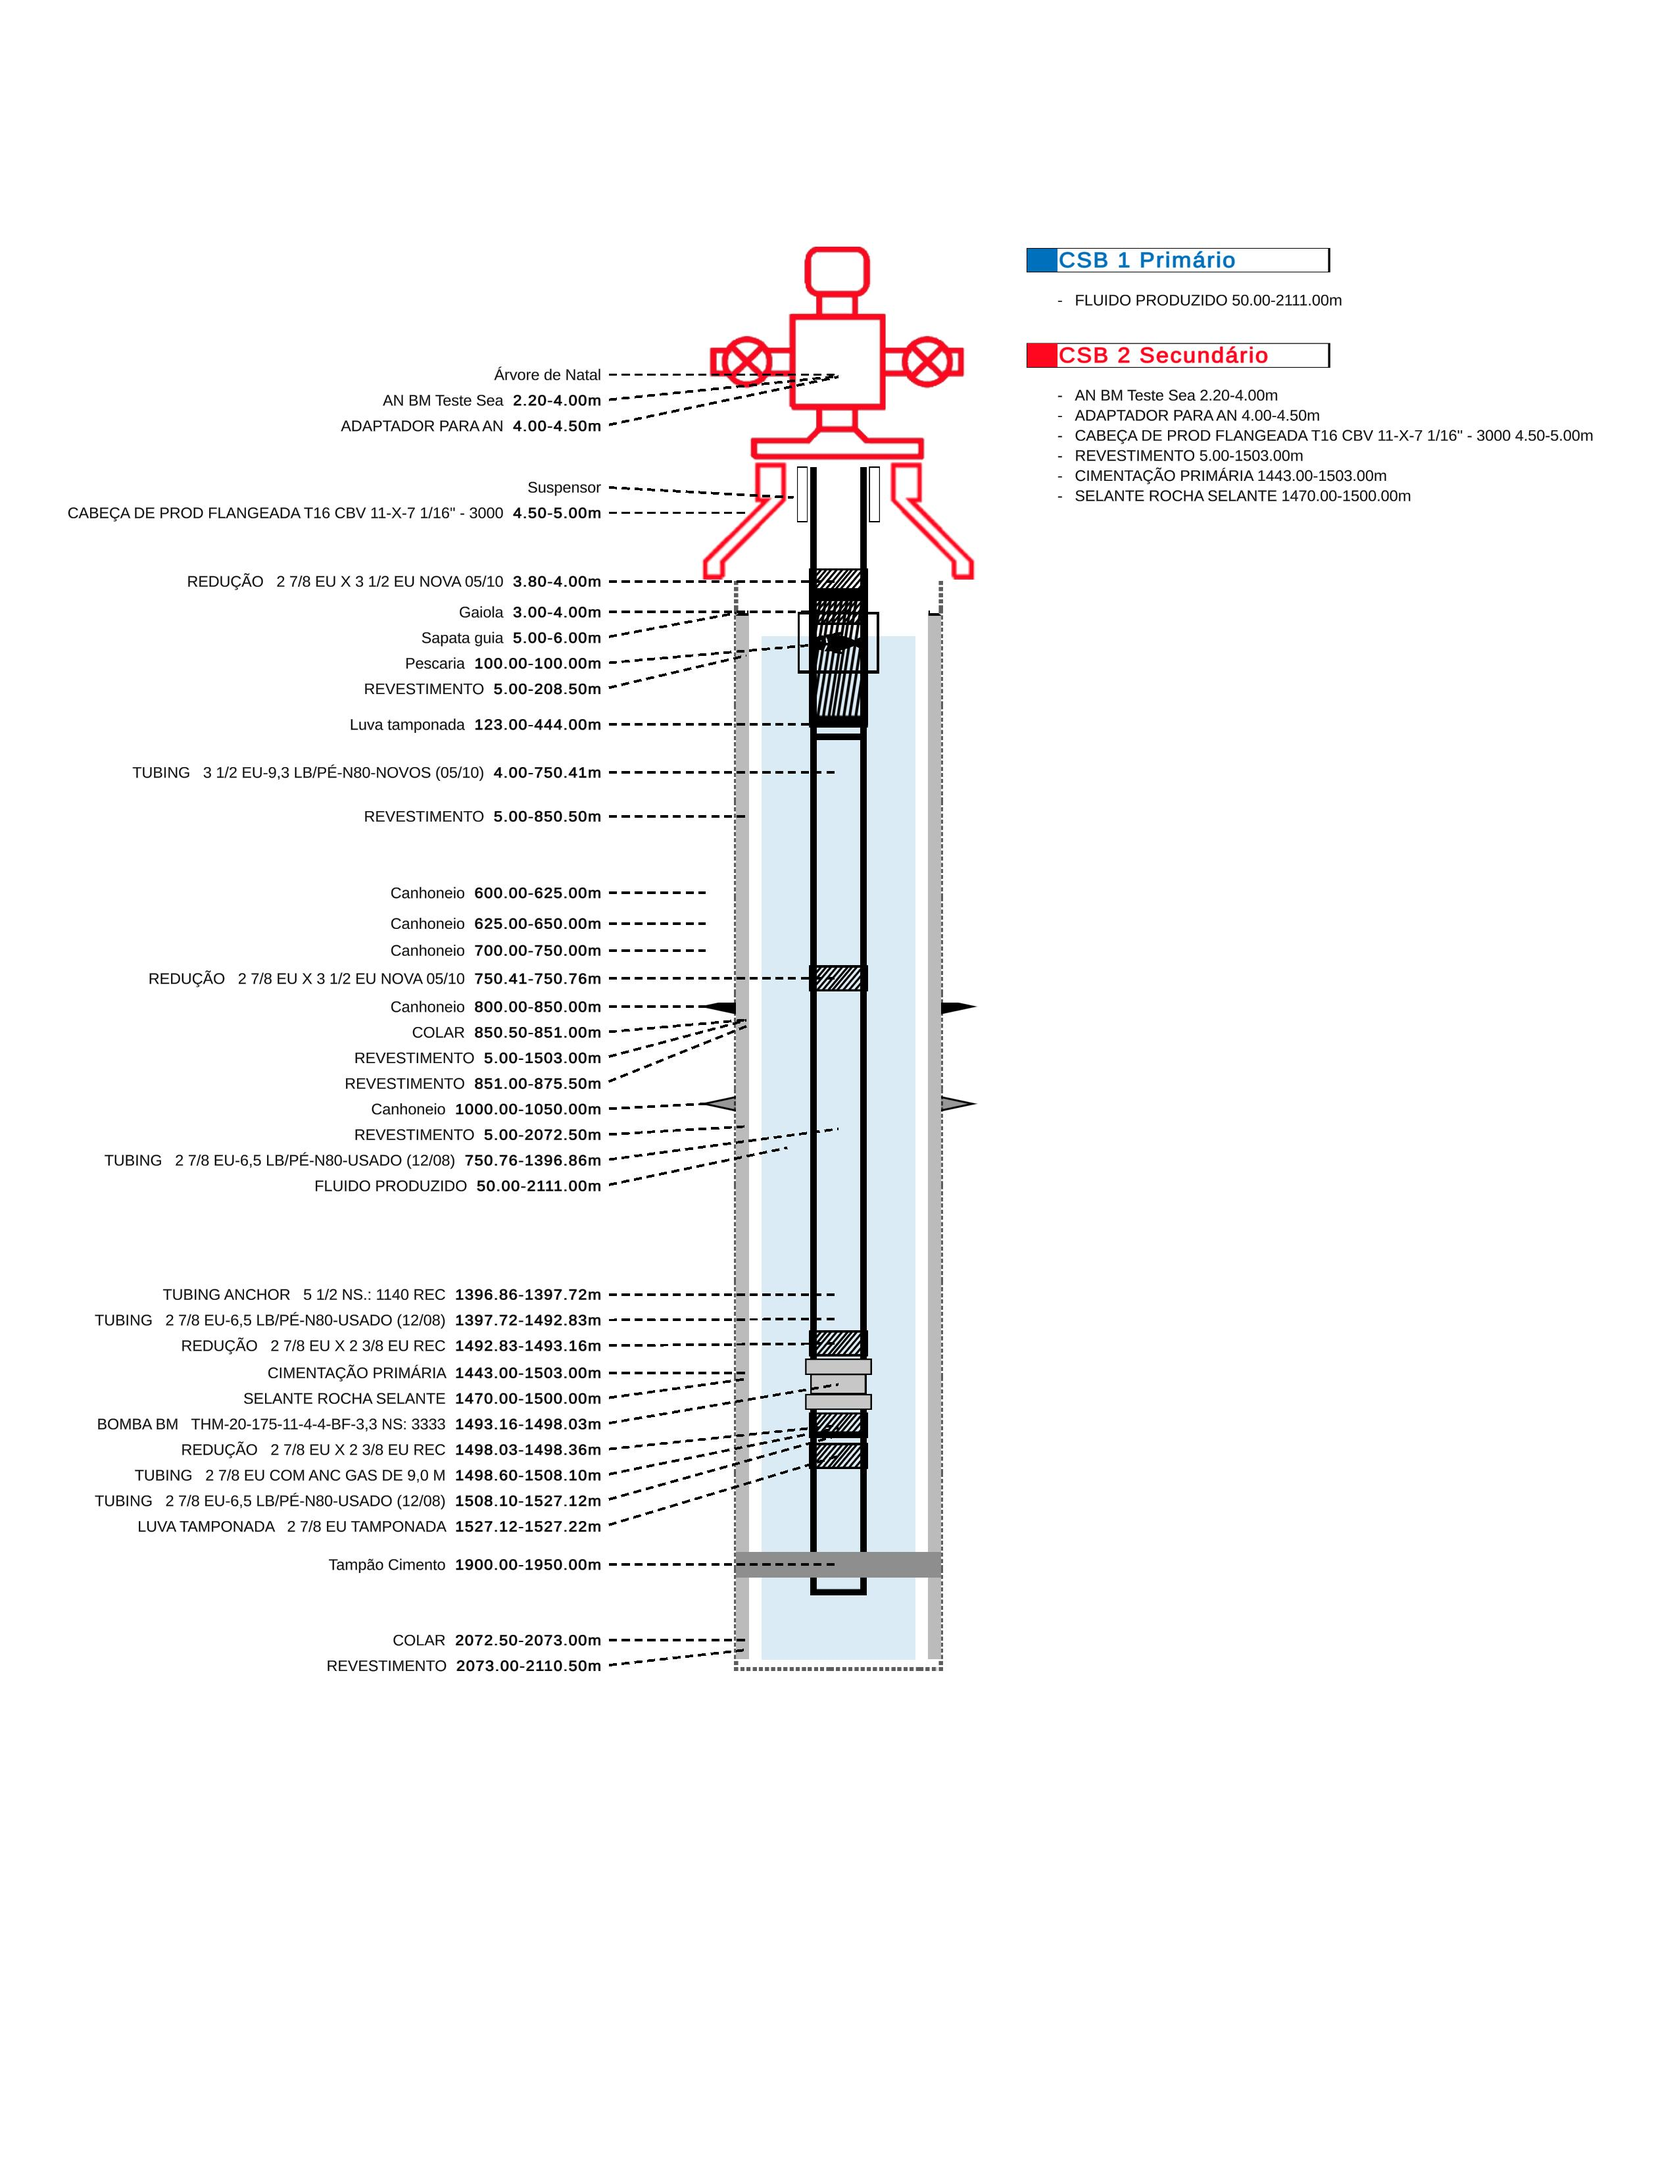
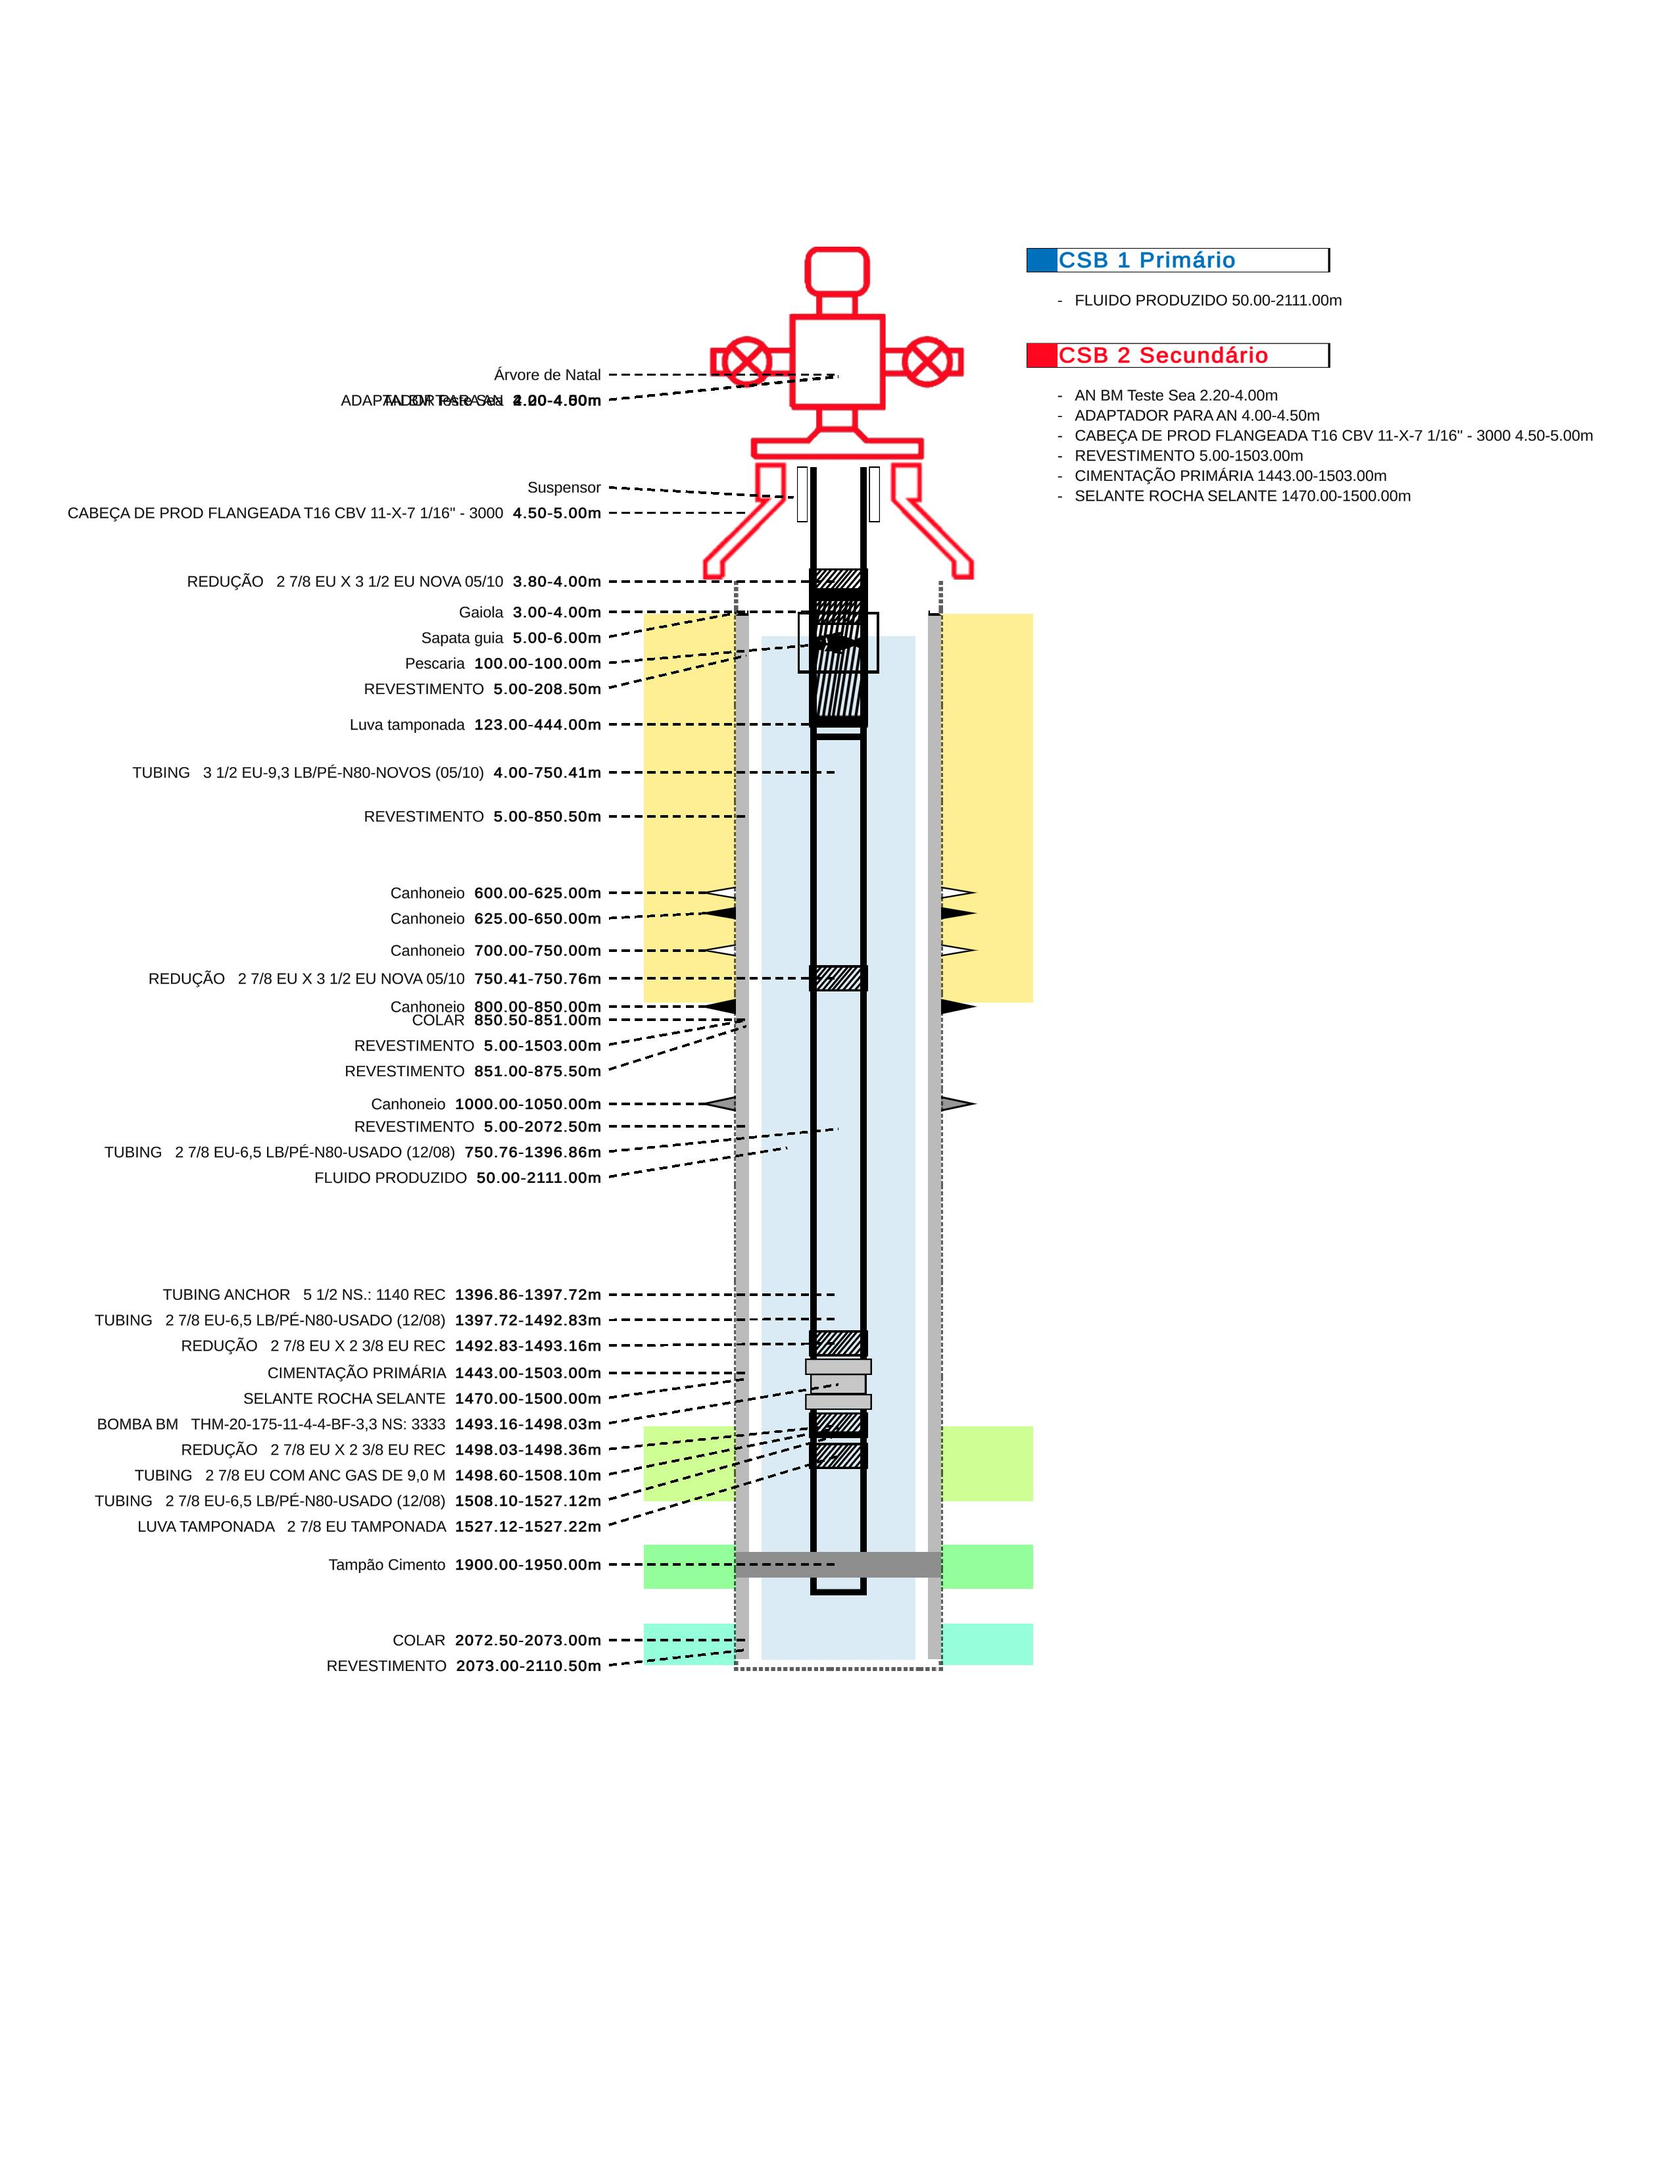
WIP new logic for background renderer

diff --git a/Assets/Source/Logic/Scripts/Visual Rendering/VisualElement.cs b/Assets/Source/Logic/Scripts/Visual Rendering/VisualElement.cs
@@ -84,11 +84,16 @@ public class VisualElement : MonoBehaviour
     public async UniTask GenerateDrawing(int additionalSort = 0)
     {
         SpriteRenderer render = null;
+        SpriteRenderer backGroundRenderer = null;
         BaseElement element = _sItem.element;
 
         if (element.useBgColor)
         {
             render = await CreateRender("FillColor", element.sortInLayer + additionalSort);
+            backGroundRenderer = 
+                element.useWhiteBackground ?
+                render.GetComponentInChildren<SpriteRenderer>() :
+                null;
 
             render.color = element.defaultColor;
             render.transform.localScale = DrawArea.size * element.aditionalBgScale;
@@ -101,7 +106,11 @@ public class VisualElement : MonoBehaviour
         if (element.useInsideArt && element.art != null)
         {
             render = await CreateRender("Art", element.sortInLayer + additionalSort + 1);
-
+            backGroundRenderer = render.GetComponentInChildren<SpriteRenderer>();
+            backGroundRenderer =
+                element.useWhiteBackground ?
+                render.GetComponentInChildren<SpriteRenderer>() :
+                null;
 
             render.sprite = element.art;
             render.color = element.artColor;

diff --git a/Assets/Source/Logic/Scripts/Visual Rendering/BaseElement.cs b/Assets/Source/Logic/Scripts/Visual Rendering/BaseElement.cs
@@ -47,6 +47,7 @@ public class BaseElement : ScriptableObject
     [Space]
     [HideIf("useDrawSettings")][SerializeField] public bool useInsideArt = false;
     [ShowIf("useInsideArt")][HideIf("useDrawSettings")][SerializeField] public Sprite art;
+    [ShowIf("useInsideArt")][HideIf("useDrawSettings")][SerializeField] public bool useWhiteBackground;
     [ShowIf("useInsideArt")][HideIf("useDrawSettings")][SerializeField] public Color artColor = Color.black;
     [ShowIf("useInsideArt")][HideIf("useDrawSettings")][SerializeField] public SpriteMaskInteraction maskInteraction = SpriteMaskInteraction.VisibleInsideMask;
     [ShowIf("useInsideArt")][HideIf("useDrawSettings")][SerializeField] public SpriteDrawMode drawMode = SpriteDrawMode.Simple;
